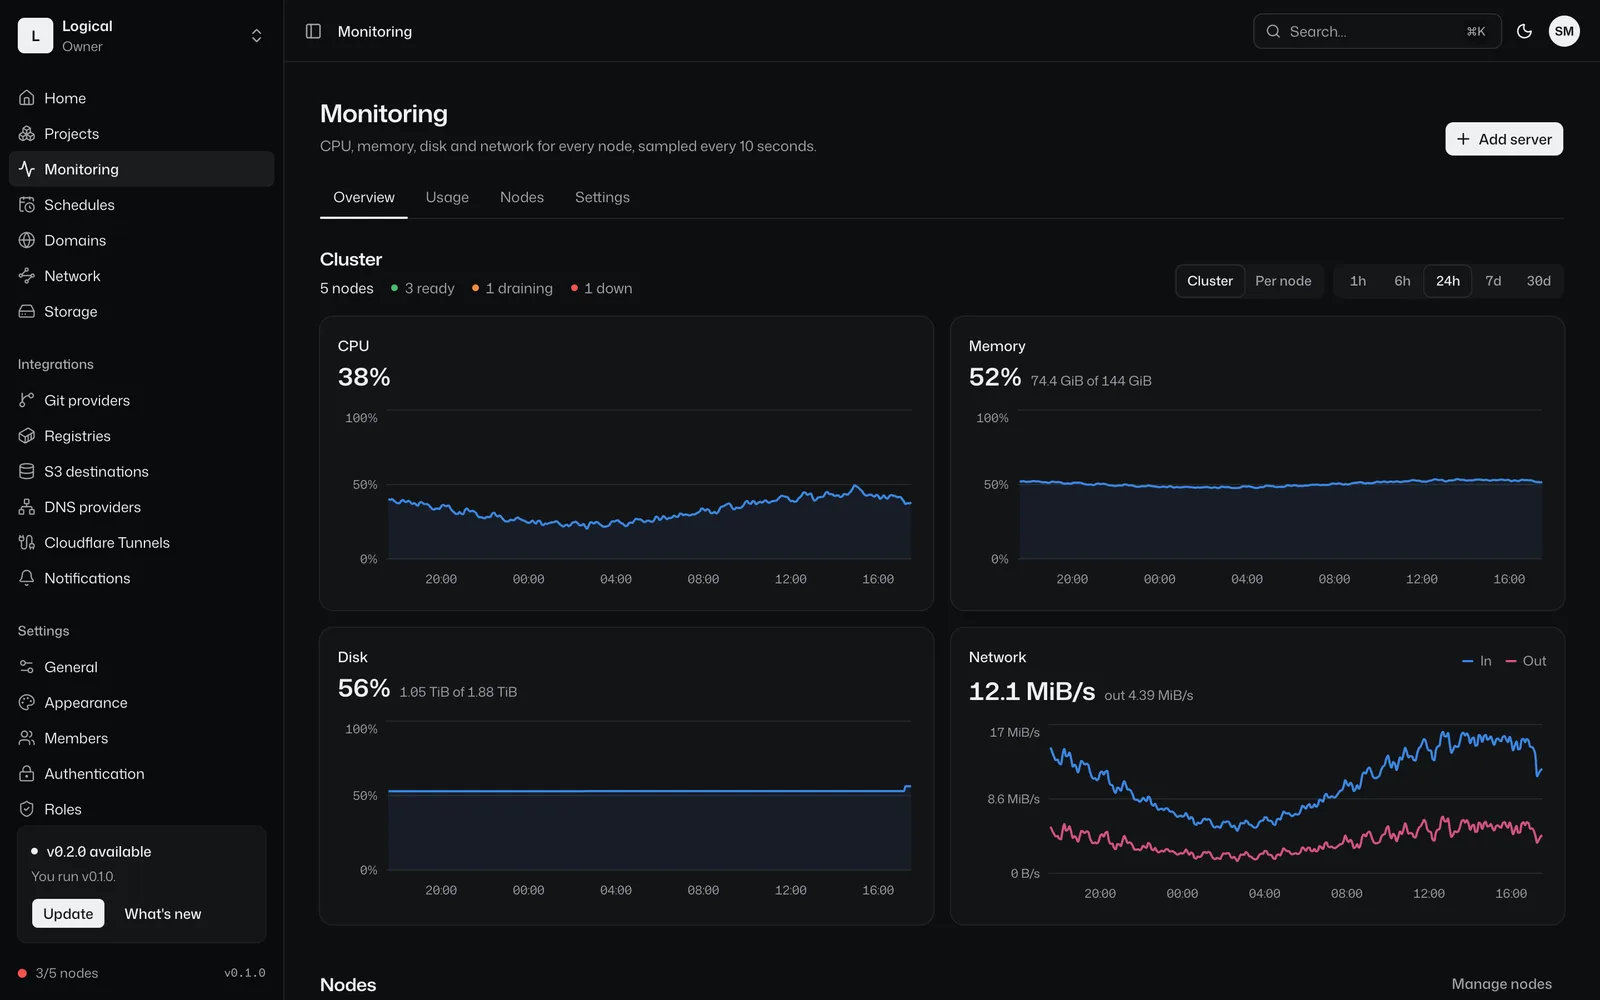
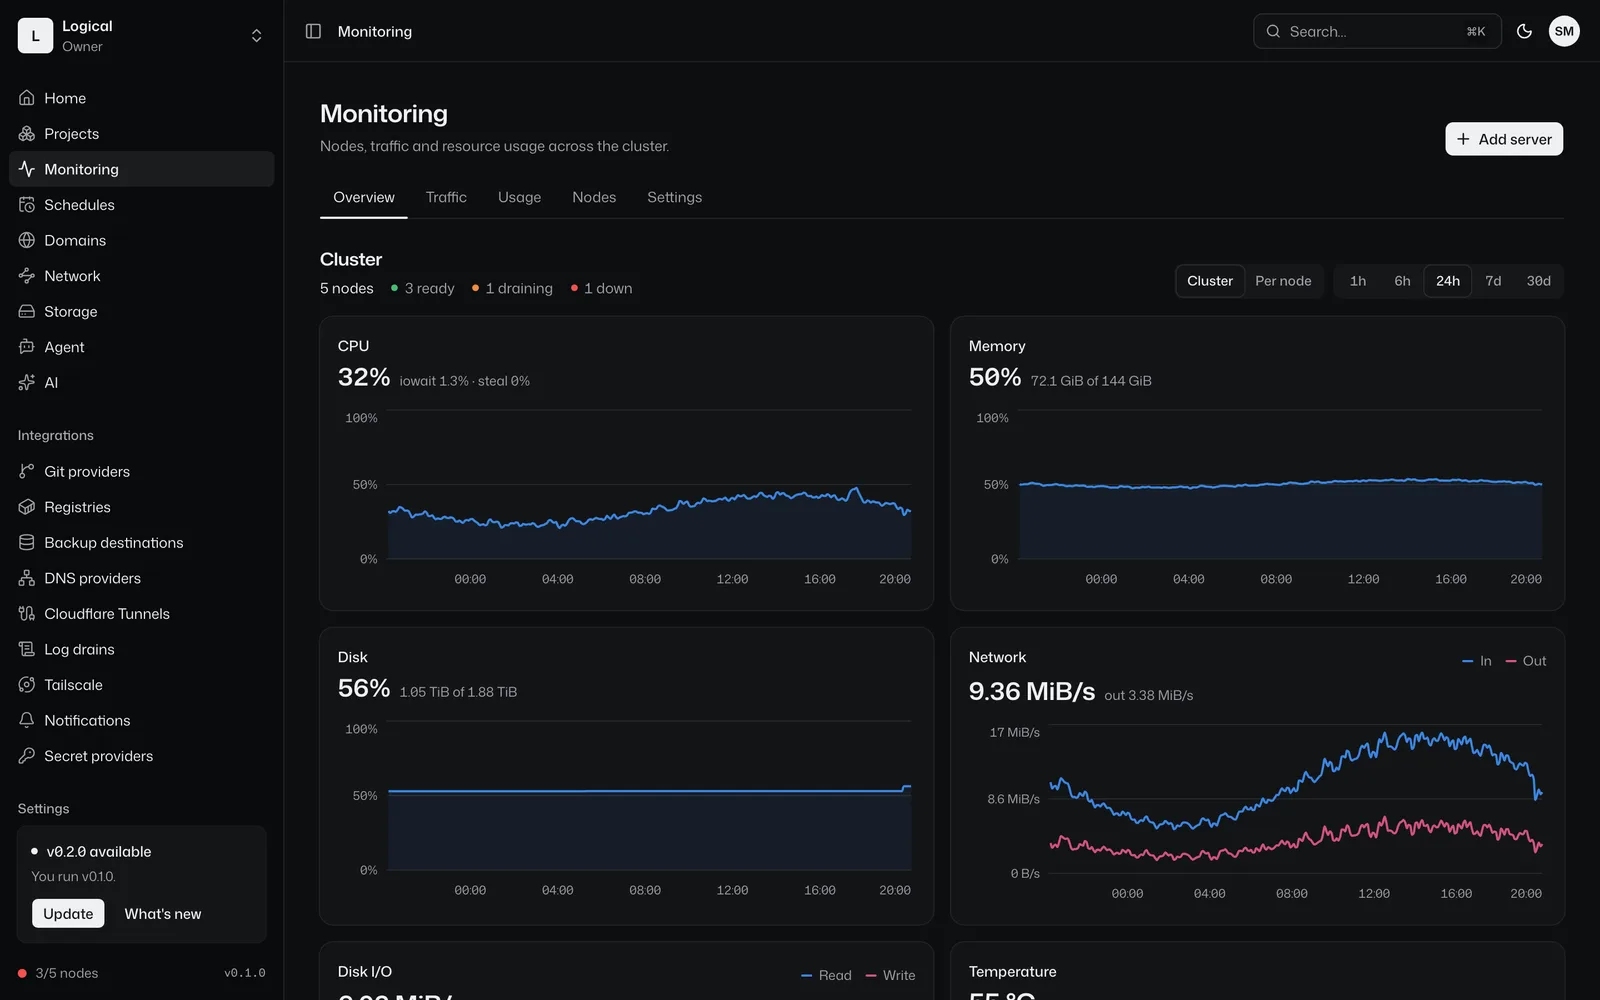
docs(docs-site): traffic analytics page, host disk I/O and temperature charts
New Operate page for the Analytics tab, the Traffic overview and the
first-party script; the metrics page covers the new cluster and node
charts. Screenshots refreshed from the mock for the pages whose tabs or
charts changed.

diff --git a/docs-site/scripts/screenshots.ts b/docs-site/scripts/screenshots.ts
@@ -43,6 +43,7 @@ export const shots: Record<string, Shot> = {
 	"service-environment": `${SVC}/environment`,
 	"service-domains": `${SVC}/domains`,
 	"service-metrics": `${SVC}/metrics`,
+	"service-analytics": `${SVC}/analytics`,
 	"service-storage": `${P}/services/svc_storefront_production_media/storage`,
 	"service-settings": `${SVC}/settings`,
 	"service-scaling": `${SVC}/settings#scaling`,
@@ -73,6 +74,7 @@ export const shots: Record<string, Shot> = {
 	monitoring: "/monitoring",
 	"monitoring-alerts": "/monitoring/alerts",
 	"monitoring-usage": "/monitoring/usage",
+	"monitoring-traffic": "/monitoring/traffic",
 	nodes: "/monitoring/nodes",
 	node: "/monitoring/nodes/node_fra1",
 	"node-new": "/monitoring/nodes/new",

diff --git a/apps/web/src/components/monitoring/monitoring-page.tsx b/apps/web/src/components/monitoring/monitoring-page.tsx
@@ -28,7 +28,7 @@ export function MonitoringPage({
 		<Page className="max-w-7xl">
 			<PageHeader
 				title="Monitoring"
-				description="CPU, memory, disk and network for every node, sampled every 10 seconds."
+				description="Nodes, traffic and resource usage across the cluster."
 				actions={
 					<Button asChild>
 						<Link to="/monitoring/nodes/new">

diff --git a/apps/web/src/components/projects/service-traffic.tsx b/apps/web/src/components/projects/service-traffic.tsx
@@ -196,6 +196,7 @@ export function TrafficCharts({
 					},
 				]}
 				format={formatMs}
+				axisFormat={(v) => (v === 0 ? "0" : formatMs(v))}
 				detail="p50, time to the last byte"
 			/>
 			<MetricChart
